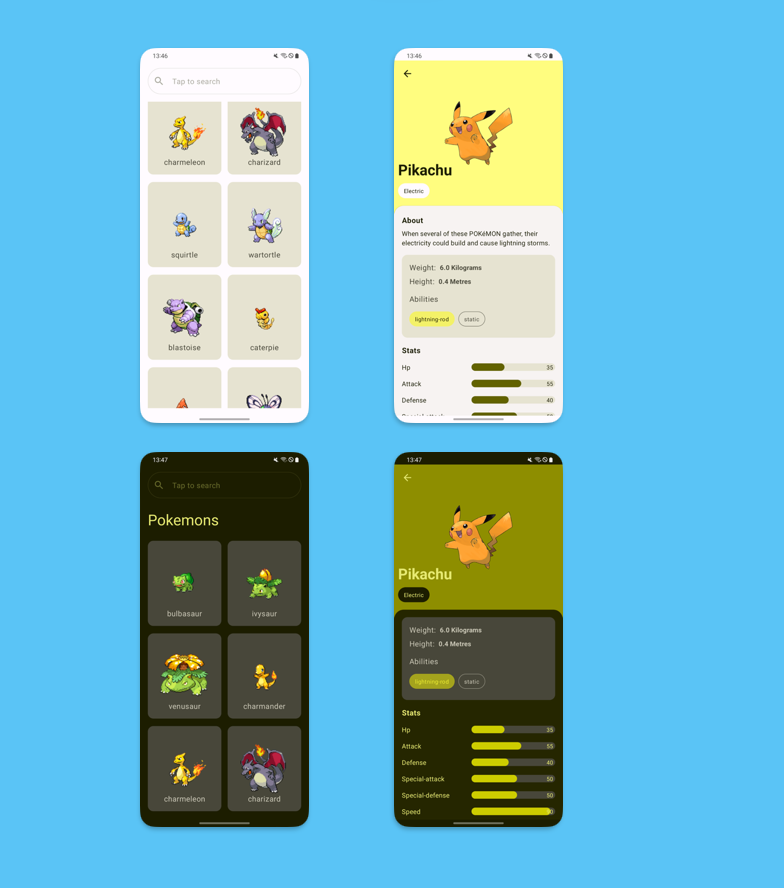
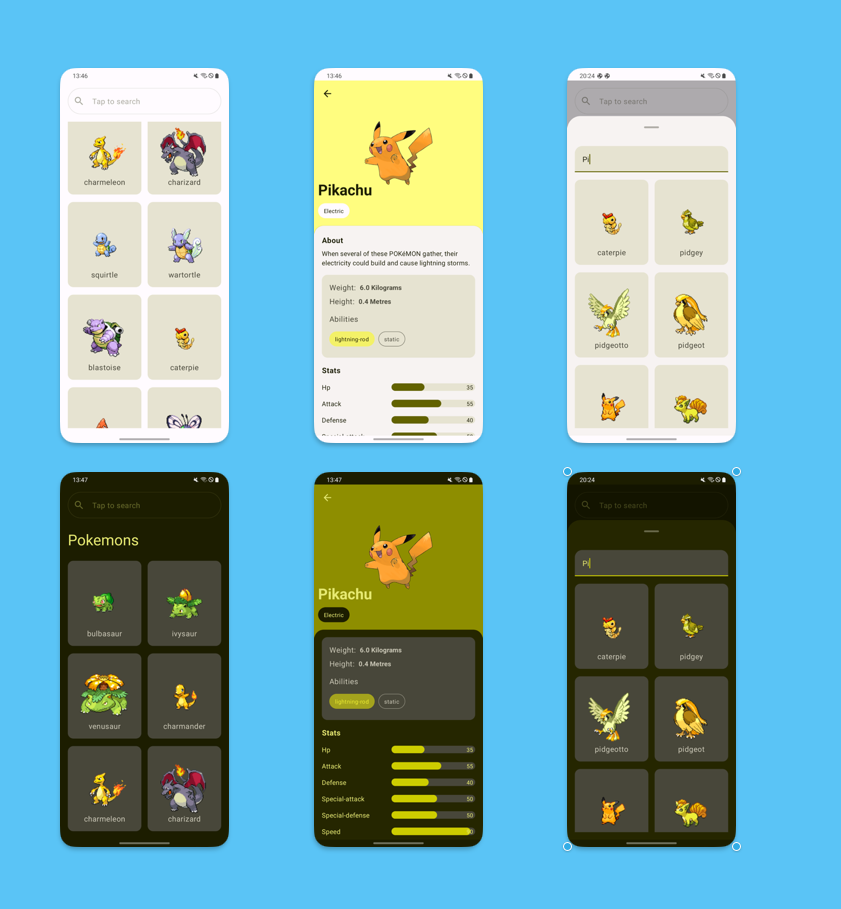
update search screen

diff --git a/features/pokedex/src/main/kotlin/com/pokamon/features/pokedex/ui/listing/SearchBottomSheet.kt b/features/pokedex/src/main/kotlin/com/pokamon/features/pokedex/ui/listing/SearchBottomSheet.kt
@@ -1,0 +1,135 @@
+package com.pokamon.features.pokedex.ui.listing
+
+import androidx.compose.foundation.layout.Arrangement
+import androidx.compose.foundation.layout.Box
+import androidx.compose.foundation.layout.Column
+import androidx.compose.foundation.layout.ExperimentalLayoutApi
+import androidx.compose.foundation.layout.FlowRow
+import androidx.compose.foundation.layout.Spacer
+import androidx.compose.foundation.layout.fillMaxSize
+import androidx.compose.foundation.layout.fillMaxWidth
+import androidx.compose.foundation.layout.height
+import androidx.compose.foundation.layout.padding
+import androidx.compose.foundation.rememberScrollState
+import androidx.compose.foundation.shape.RoundedCornerShape
+import androidx.compose.foundation.verticalScroll
+import androidx.compose.material3.Card
+import androidx.compose.material3.ExperimentalMaterial3Api
+import androidx.compose.material3.ModalBottomSheet
+import androidx.compose.material3.Text
+import androidx.compose.material3.TextField
+import androidx.compose.material3.rememberModalBottomSheetState
+import androidx.compose.runtime.Composable
+import androidx.compose.runtime.getValue
+import androidx.compose.runtime.mutableStateOf
+import androidx.compose.runtime.remember
+import androidx.compose.runtime.setValue
+import androidx.compose.ui.Alignment
+import androidx.compose.ui.Modifier
+import androidx.compose.ui.platform.LocalConfiguration
+import androidx.compose.ui.res.stringResource
+import androidx.compose.ui.unit.dp
+import com.pokamon.features.pokedex.R
+import com.pokamon.features.pokedex.domain.model.PokemonListing
+import com.pokamon.features.pokedex.ui.util.UrlImageView
+
+
+@OptIn(ExperimentalMaterial3Api::class, ExperimentalLayoutApi::class)
+@Composable
+fun SearchBottomSheet(
+    modifier: Modifier = Modifier,
+    pokemon: List<PokemonListing>,
+    onDismiss: (String) -> Unit
+) {
+    val config = LocalConfiguration.current
+    val height = (config.screenHeightDp * .90).toInt()
+    val sheetState = rememberModalBottomSheetState(
+        skipPartiallyExpanded = true
+    )
+
+    val scrollState = rememberScrollState()
+
+    var searchText by remember {
+        mutableStateOf("")
+    }
+
+    ModalBottomSheet(
+        modifier = modifier
+            .fillMaxWidth()
+            .height(height.dp),
+        onDismissRequest = {
+            onDismiss("")
+        },
+        sheetState = sheetState
+    ) {
+        Column(
+            modifier = modifier
+                .fillMaxWidth()
+                .height(height.dp)
+                .padding(all = 16.dp)
+        ) {
+            TextField(
+                modifier = modifier
+                    .fillMaxWidth(),
+                value = searchText,
+                onValueChange = {
+                    searchText = it
+                },
+                placeholder = {
+                    Text(
+                        text = stringResource(R.string.start_typing),
+                    )
+                },
+                shape = RoundedCornerShape(
+                    topStart = 16.dp,
+                    topEnd = 16.dp
+                )
+            )
+            Spacer(modifier = modifier.height(16.dp))
+
+            if (searchText.isNotEmpty()) {
+
+                val filtered = pokemon.filter { it.name.contains(searchText, true) }
+                Column(
+                    modifier = modifier
+                        .fillMaxSize()
+                        .verticalScroll(scrollState)
+                ) {
+                    FlowRow(
+                        modifier = modifier.fillMaxWidth(),
+                        maxItemsInEachRow = 2,
+                        verticalArrangement = Arrangement.spacedBy(16.dp),
+                        horizontalArrangement = Arrangement.SpaceBetween
+                    ) {
+                        filtered.forEach { character ->
+                            Card(
+                                modifier = modifier
+                                    .fillMaxWidth(.48F),
+                                onClick = {
+                                    onDismiss(character.id)
+                                },
+                            ) {
+                                Box(
+                                    modifier = modifier
+                                        .fillMaxWidth()
+                                        .padding(16.dp)
+                                ) {
+                                    UrlImageView(
+                                        url = character.imageUrl,
+                                        imageSize = 150.dp
+                                    )
+
+                                    Text(
+                                        modifier = modifier
+                                            .align(Alignment.BottomCenter),
+                                        text = character.name
+                                    )
+                                }
+                            }
+                        }
+                    }
+                }
+            }
+        }
+    }
+}

diff --git a/features/pokedex/src/main/kotlin/com/pokamon/features/pokedex/ui/listing/CharactersScreen.kt b/features/pokedex/src/main/kotlin/com/pokamon/features/pokedex/ui/listing/CharactersScreen.kt
@@ -43,7 +43,6 @@ import com.pokamon.features.networking.util.createImageUrl
 import com.pokamon.features.pokedex.R
 import com.pokamon.features.pokedex.domain.model.PokemonListing
 import com.pokamon.features.pokedex.ui.util.UrlImageView
-import timber.log.Timber
 import java.util.UUID
 
 val sampleItems = List(
@@ -67,7 +66,20 @@ fun CharactersScreen(
         mutableStateOf(listOf<PokemonListing>())
     }
 
+    var showBottomSheet by remember {
+        mutableStateOf(false)
+    }
+
     val scrollState = rememberScrollState()
+
+    if (showBottomSheet) {
+        SearchBottomSheet(pokemon = items, onDismiss = { id ->
+            showBottomSheet = false
+            if (id.isNotBlank()) {
+                onItemClicked(id)
+            }
+        })
+    }
 
     Column(
         modifier = modifier
@@ -100,7 +112,9 @@ fun CharactersScreen(
 
             is CharactersUIState.Success -> {
                 items = (state as CharactersUIState.Success).characters
-                SearchContent()
+                SearchContent {
+                    showBottomSheet = true
+                }
 
                 Spacer(modifier = modifier.height(16.dp))
 
@@ -117,13 +131,14 @@ fun CharactersScreen(
 
 @Composable
 fun SearchContent(
-    modifier: Modifier = Modifier
+    modifier: Modifier = Modifier,
+    onSearchClicked: () -> Unit
 ) {
     OutlinedTextField(
         modifier = modifier
             .fillMaxWidth()
             .clickable {
-                Timber.e("search clicked")
+                onSearchClicked()
             },
         value = "",
         onValueChange = {},
@@ -223,7 +238,7 @@ fun CharacterPreview() {
                     .fillMaxSize()
                     .padding(16.dp)
             ) {
-                SearchContent()
+                SearchContent{}
 
                 Spacer(modifier = modifier.height(16.dp))
                 CharactersContent(

diff --git a/README.md b/README.md
@@ -45,7 +45,7 @@ depend directly on the `core modules`.
 
 ### Feature Modules
 
-The feature modules, represent a singular feature of the app, such as authentication. It allows us
+The feature modules, represent a singular feature of the app, such as pokedex (list of pokemon and the details). It allows us
 to decouple the features from the app itself and test these in isolation.
 
 > It is important to note that no feature modules should ever depend on other feature modules.
@@ -56,7 +56,8 @@ The core modules include code that is common amongst features, and other core mo
 things such as the design system.
 
 Features depend on core modules and core modules can depend on one another. We should be careful to
-not create cyclical dependencies amongst the core modules however.
+not create cyclical dependencies amongst the core modules, however.
+
 In the case of cyclical dependencies we most likely can refactor the code which is needed into a
 separate core module such as `:core-common`
 
